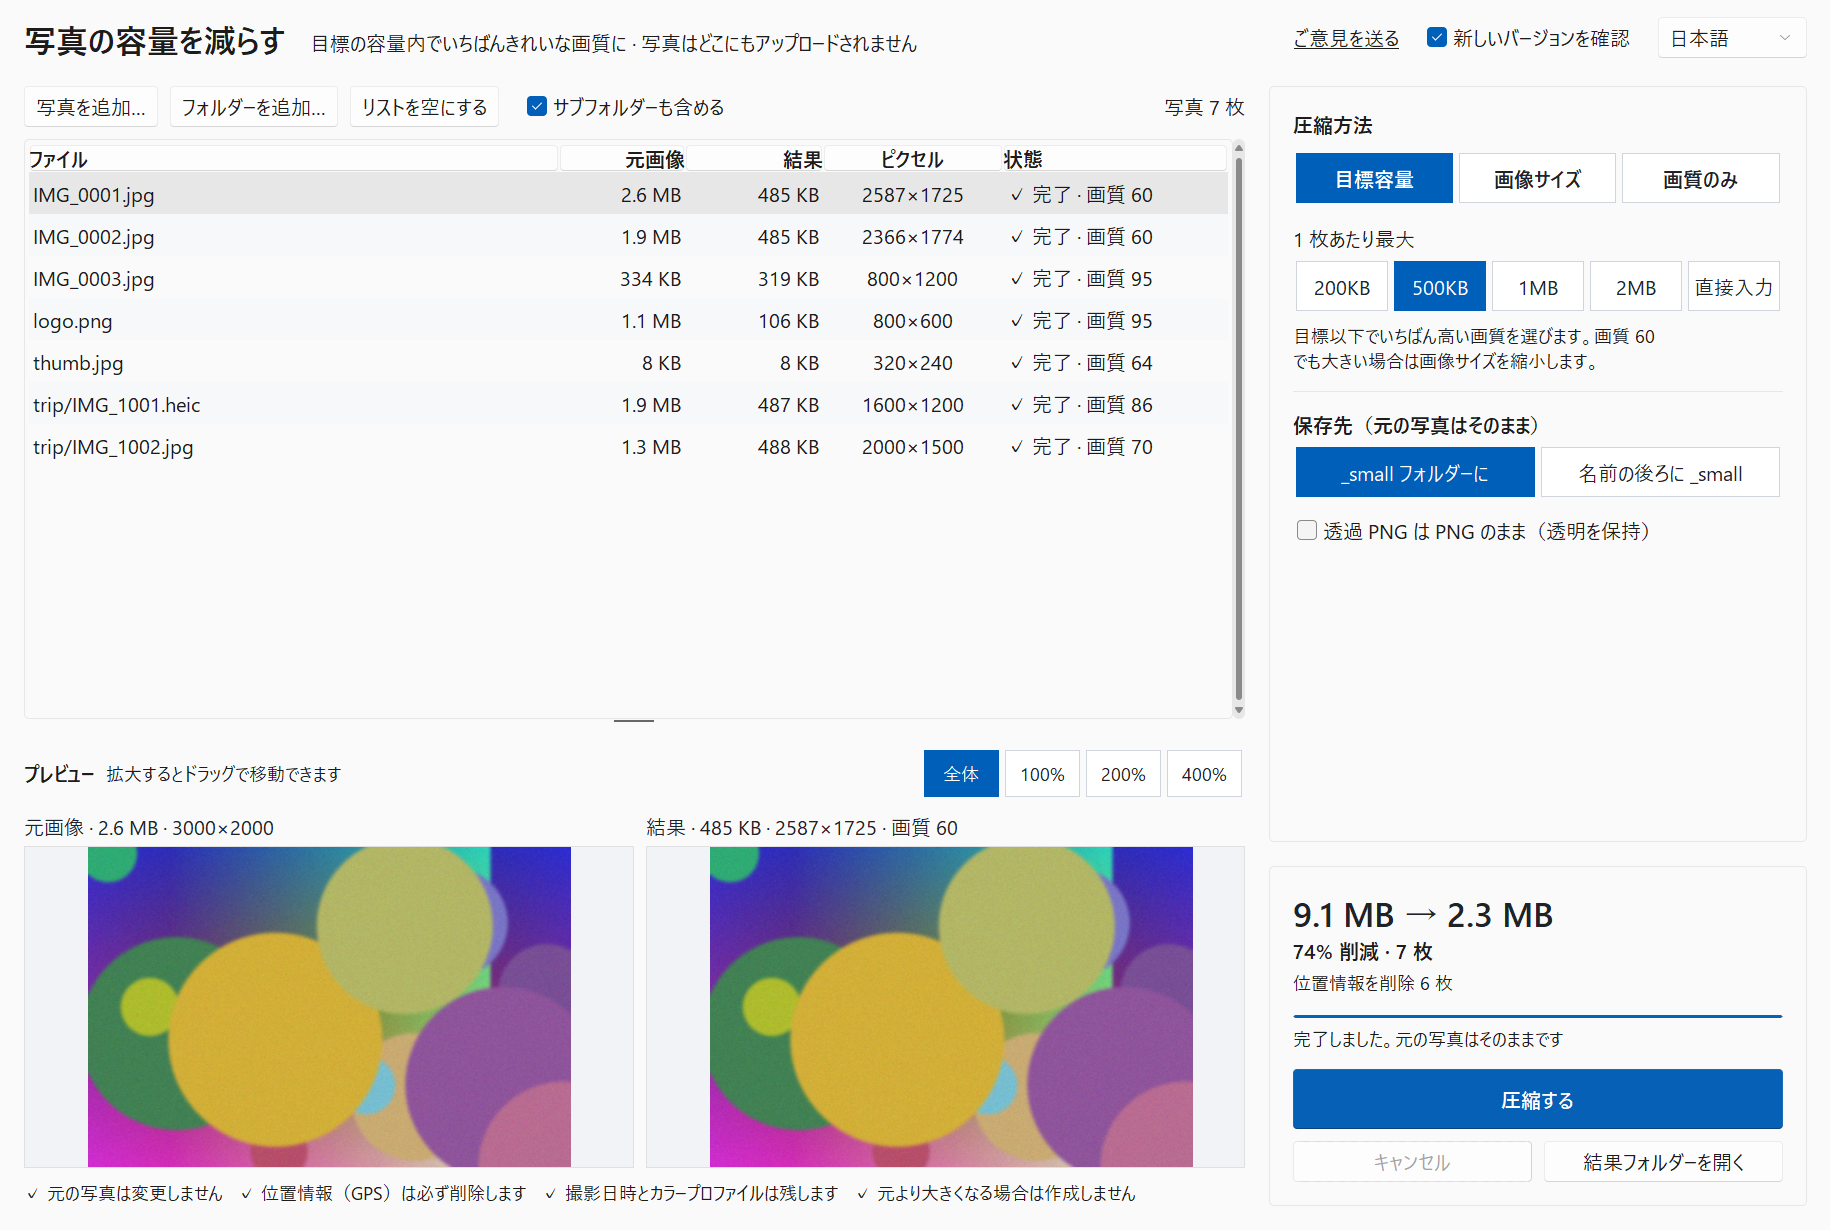
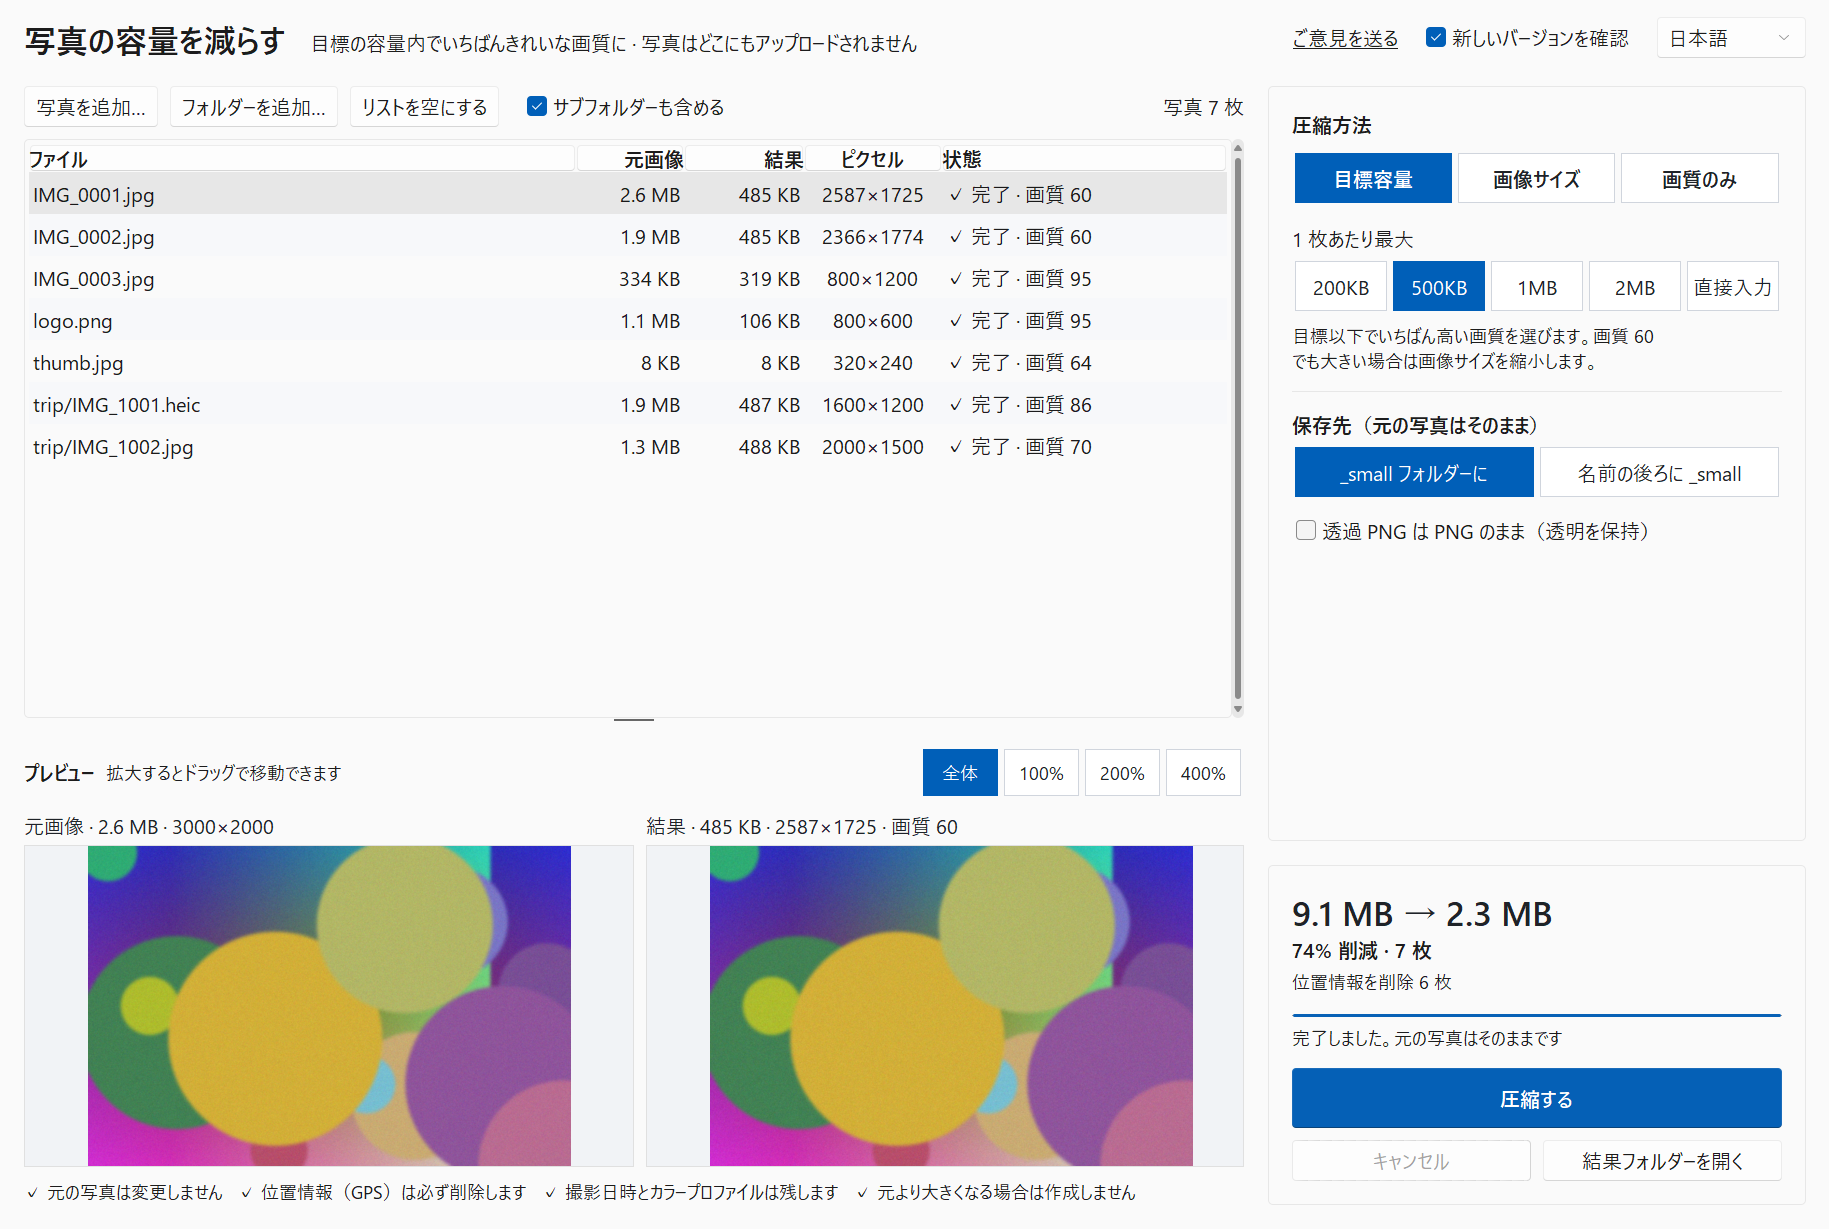
최소 창에서 표 「상태」 열이 밀려 안 보이던 것 수정(열 너비 조정, 모든 언어). 시험 477 중 476 통과(3.14·3.12, 기존 시간 의존 1건)·바깥 호출 0건

diff --git a/tests/test_lang_ja_zh.py b/tests/test_lang_ja_zh.py
@@ -250,22 +250,42 @@ def test_nothing_is_cut_or_overlapping(root, make_app, folder, lang, size):
     assert cut_off(app) == []
     assert header_problems(app) == []
     assert heading_problems(app) == []
+    assert column_problems(app) == []
     assert app.chk_png.winfo_ismapped() and app.btn_run.winfo_ismapped()
     notice = app.update_area.winfo_children()[0]
     assert all(w.winfo_width() >= w.winfo_reqwidth() for w in notice.winfo_children()
                if w.winfo_class() in ("TButton", "Button"))
 
 
-@pytest.mark.xfail(strict=True, reason="v0.1.1 layout, every language: the columns add up to 726 design px but "
-                   "the list is about 620 wide at the smallest window, so the status column is off the right edge "
-                   "(no horizontal scroll). Left as it is in this language-only change; see the hub report.")
+def column_problems(app):
+    """Every column is inside the table (there is no sideways scroll bar) and the longest
+    status of this language fits its column. Up to v0.1.1 the columns added up to 726 design
+    px against a table about 560-620 wide at the smallest window: the status column was off
+    the right edge in every language."""
+    problems = []
+    widths = [int(app.tree.column(c, "width")) for c in app.tree["columns"]]
+    if sum(widths) > app.tree.winfo_width():
+        problems.append(("columns", sum(widths), app.tree.winfo_width()))
+    font = tkfont.Font(root=app.root, font=app.f_body)
+    longest = [f"{gui.CHECK} " + i18n.t("st_expected", text=i18n.t("st_done_q", q=95))]
+    longest += [f"{gui.CROSS} " + i18n.t(k) for k in ("st_over_none", "st_small", "st_cancelled")]
+    status_width = int(app.tree.column("status", "width"))
+    problems += [("status", s) for s in longest if font.measure(s) + gui.px(12) > status_width]
+    return problems
+
+
 @pytest.mark.parametrize("lang", ALL)
 def test_the_status_column_shows_at_the_smallest_window(root, make_app, folder, lang):
     i18n.set_lang(lang, persist=False)
     app = make_app([str(folder)], size=theme.WINDOW_MIN)
-    pump(root, timeout=0.5)
-    widths = sum(int(app.tree.column(c, "width")) for c in app.tree["columns"])
-    assert widths <= app.tree.winfo_width()
+    wait_estimate(root, app)
+    pump(root, timeout=0.3)
+    assert column_problems(app) == []
+    x, y, w, h = app.tree.bbox("0", "status")  # the first row's status cell is on screen
+    assert w > 0 and x + w <= app.tree.winfo_width()
+    font = tkfont.Font(root=root, font=app.f_body)
+    for iid in app.tree.get_children():
+        assert font.measure(app.tree.set(iid, "status")) < int(app.tree.column("status", "width")), lang
 
 
 @pytest.fixture
@@ -285,6 +305,7 @@ def test_smallest_window_at_100_percent(root, make_app, folder, scale_100, lang)
     app = make_app([str(folder)], size=theme.WINDOW_MIN)
     pump(root, timeout=0.5)
     assert cut_off(app) == [] and header_problems(app) == [] and heading_problems(app) == []
+    assert column_problems(app) == []
     assert app.btn_run.winfo_ismapped()
 
 
@@ -304,6 +325,7 @@ def test_smallest_window_at_150_percent(root, make_app, folder, scale_150, lang)
     app = make_app([str(folder)], size=theme.WINDOW_MIN)
     pump(root, timeout=0.5)
     assert cut_off(app) == [] and header_problems(app) == [] and heading_problems(app) == []
+    assert column_problems(app) == []
     assert app.btn_run.winfo_ismapped()
 
 

diff --git a/gui.py b/gui.py
@@ -56,8 +56,10 @@ ESTIMATE_DELAY_MS = 350
 PREVIEW_DELAY_MS = 150
 ESTIMATE_SAMPLE = 12
 ZOOMS = ("fit", 1.0, 2.0, 4.0)
-COLUMNS = (("name", 280, True, "w"), ("before", 84, False, "e"), ("after", 92, False, "e"),
-           ("pixels", 120, False, "center"), ("status", 150, False, "w"))
+# The fixed columns fit their longest text in all four languages; the name column starts
+# small and takes whatever is left, so all five fit the smallest window (about 560 px wide).
+COLUMNS = (("name", 100, True, "w"), ("before", 72, False, "e"), ("after", 80, False, "e"),
+           ("pixels", 92, False, "center"), ("status", 190, False, "w"))
 CUSTOM = "custom"
 
 

diff --git a/docs/releases/v0.1.2.md b/docs/releases/v0.1.2.md
@@ -8,16 +8,13 @@
 - 일본어 화면은 Yu Gothic UI, 중국어 화면은 Microsoft YaHei UI 글꼴로 그립니다.
 - 명령줄도 `--lang ja`·`--lang zh-CN`으로 도움말·진행·오류 문구가 그 언어로 나옵니다.
 - **의견 보내기**(ご意見を送る·发送反馈)는 일본어·중국어 화면에서 영어 판 툴 페이지를 엽니다(일본어·중국어 페이지는 없음).
+- **작은 창에서도 상태 열이 보입니다.** 창을 가장 작게(1000×680) 줄이면 목록 표의 **상태** 열이 오른쪽 밖으로 밀려 안 보이던 것(v0.1.0부터, 모든 언어)을 고쳤습니다. 파일 이름 열이 남는 폭을 나눠 갖고, 나머지 열은 4개 언어의 가장 긴 글자에 맞췄습니다. 영어 화면에서 잘리던 「Done · quality 95 (expected)」도 이제 다 보입니다. 기본 크기의 모양은 그대로입니다.
 - README 일본어판(README.ja.md)·중국어판(README.zh-CN.md)을 더하고 4개 언어 README가 서로 이어지게 했습니다.
 
 ### 확인한 것
 
-- 전체 시험(파이썬 3.12·3.14 각 473개 통과, 알려진 문제 표시 4개 — 새 시험 101개). 새 시험은 언어 파일(한국어와 같은 키·순서·자리표시자, 빈 값·한글 남은 것 없음), 실행 중 언어 바꾸기(한→일→중→영→한, 모든 버튼·표 머리·상태 줄), 최소·기본 창 크기와 화면 배율 100%·150%에서 글자 잘림·겹침, 글꼴에 모든 글자가 있는지, 오류 문구(읽을 수 없는 파일·깨진 HEIC·쓰기 실패·이미 작음·목표 초과·명령줄 실수), 언어와 상관없이 결과 파일이 바이트까지 같은지, 이상한 설정 값·언어 파일이 없을 때를 봅니다. 시험은 실제 브라우저를 열지 않고 네트워크 요청 0건입니다.
+- 전체 시험 477개(새 시험 101개)를 파이썬 3.12·3.14에서 각각 돌려 476개 통과. 남은 1개(`test_add_estimate_run_summary`)는 PC가 바쁠 때 추정이 너무 빨리 끝나 중간 숫자를 못 보는, 원래부터 있던 시간 의존 시험으로, 따로 3번 돌려 3번 통과했습니다. 새 시험은 언어 파일(한국어와 같은 키·순서·자리표시자, 빈 값·한글 남은 것 없음), 실행 중 언어 바꾸기(한→일→중→영→한, 모든 버튼·표 머리·상태 줄), 최소·기본 창 크기와 화면 배율 100%·150%에서 글자 잘림·겹침·표 열이 창 안에 다 들어가는지, 글꼴에 모든 글자가 있는지, 오류 문구(읽을 수 없는 파일·깨진 HEIC·쓰기 실패·이미 작음·목표 초과·명령줄 실수), 언어와 상관없이 결과 파일이 바이트까지 같은지, 이상한 설정 값·언어 파일이 없을 때를 봅니다. 시험은 실제 브라우저를 열지 않고 네트워크 요청 0건입니다.
 - 빌드한 exe 안에 `lang/ja.json`·`lang/zh-CN.json`이 들어 있는 것과, 죽은 프록시 환경으로 띄워 일본어·중국어 창이 뜨고 닫히는 것을 확인했습니다.
-
-### 알려진 것 (v0.1.0부터, 언어와 무관)
-
-- 창을 가장 작게(1000×680) 줄이면 목록 표의 **상태** 열이 오른쪽 밖으로 밀려 보이지 않습니다. 기본 크기에서는 다 보입니다. 이번 판에서는 고치지 않았습니다(시험에 「알려진 문제」로 표시).
 
 ### 다운로드
 
@@ -27,4 +24,4 @@ SHA-256: `{릴리스 빌드 때 채움}`
 
 ---
 
-**Photo Resize v0.1.2** — adds **Japanese and Simplified Chinese** screens: the language list (top right) now offers 한국어 · English · 简体中文 · 日本語, the choice is kept for the next start, and a first start on a Japanese or Chinese Windows opens in that language. The command line follows `--lang ja` / `--lang zh-CN`. **Send feedback** opens the English tools page from those screens. Japanese and Chinese READMEs are added. Shrinking, results, location removal and the update check are unchanged from v0.1.1.
+**Photo Resize v0.1.2** — adds **Japanese and Simplified Chinese** screens: the language list (top right) now offers 한국어 · English · 简体中文 · 日本語, the choice is kept for the next start, and a first start on a Japanese or Chinese Windows opens in that language. The command line follows `--lang ja` / `--lang zh-CN`. **Send feedback** opens the English tools page from those screens. Japanese and Chinese READMEs are added. At the smallest window size the list's status column is no longer pushed off the right edge (since v0.1.0, every language). Shrinking, results, location removal and the update check are unchanged from v0.1.1.

diff --git a/docs/LESSONS.md b/docs/LESSONS.md
@@ -69,3 +69,9 @@
 - 같은 날 `test_add_estimate_run_summary`가 3.14·3.12 모두, 따로 돌려도, 바꾸기 전 코드로도 실패했다. 창을 만들고 첫 `update()`까지 약 5초 걸리는 사이 추정이 3장 → 7장 다 끝나, 두 결과를 한 번에 꺼내 "약(about)" 중간 숫자가 화면에 나오지 않았다(시험이 중간 상태를 기다린다). 프로그램 동작은 맞다(바로 정확한 숫자). → 사장님 지시로 시험만 고쳤다: 화면 글자가 지금 잰 장수에 맞는지 보고(일부만 재면 "about", 다 재면 없음, `assert_estimate_text`), "about" 줄은 작업 스레드와 같은 모양의 일부 추정(3장)을 `app.queue`에 넣어 매번 확인한다. 일부러 "about"을 빼 본 코드로 시험이 실패함을 확인했다.
 - 재발 방지: 화면 시험은 "먼저 오는 중간 상태"를 기다리지 않는다. 중간 상태를 봐야 하면 그 상태를 큐로 직접 넣는다.
 - 함께 한 일: conftest가 `webbrowser.open`도 막는다(기록하고 "열림"으로 답함). 가짜를 깜빡한 시험은 메시지 상자에 걸리지 않고 실패로 드러난다.
+
+## L12. 최소 창에서 표의 「상태」 열이 오른쪽 밖으로 밀림 (2026-10-26)
+- 증상: 창을 가장 작게(1000×680) 줄이면 목록 표에 파일·원본·결과·픽셀까지만 보이고 「상태」 열이 사라졌다. 가로 스크롤 막대도 없어 볼 방법이 없었다. 모든 언어에서 같았다(v0.1.0부터). 일본어·중국어 화면 캡처에서 발견.
+- 원인: 열 너비 합이 726 디자인px(이름 280 고정 시작)인데 최소 창의 표 너비는 562~614px(언어마다 옆 패널 폭이 달라짐). ttk.Treeview는 늘어나는(stretch) 열을 창이 커질 때만 넓히고, 처음부터 좁은 창에서는 줄이지 않는다. 기존 「글자 잘림」 시험은 버튼·칩만 보고 표 열은 보지 않았다.
+- 해결: 이름 열을 100에서 시작해 남는 폭을 모두 갖게 하고, 나머지 열은 4개 언어의 가장 긴 글자를 재서 맞췄다(원본 72·결과 80·픽셀 92·상태 190, 합 434). 상태 열을 넓히며 영어 「Done · quality 95 (expected)」가 기본 크기에서도 잘리던 것도 함께 풀렸다.
+- 재발 방지: `tests/test_lang_ja_zh.py`의 `column_problems`가 4개 언어 × 최소·기본 크기 × 배율 100%·150%에서 열 너비 합 ≤ 표 너비, 언어별 가장 긴 상태 글자 ≤ 상태 열을 본다. 열이나 상태 문구를 바꾸면 이 시험이 먼저 알려 준다.
